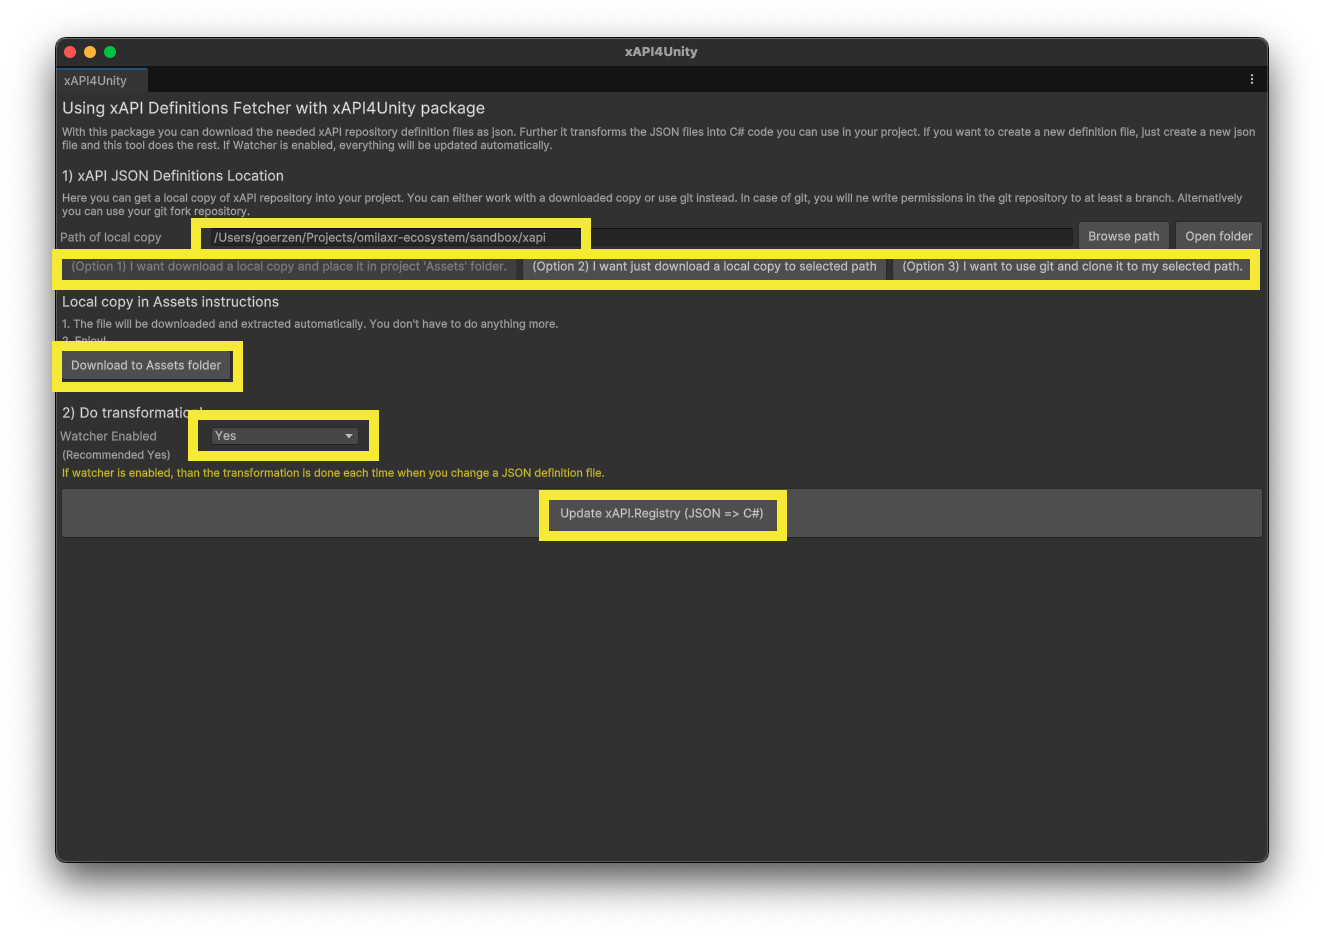
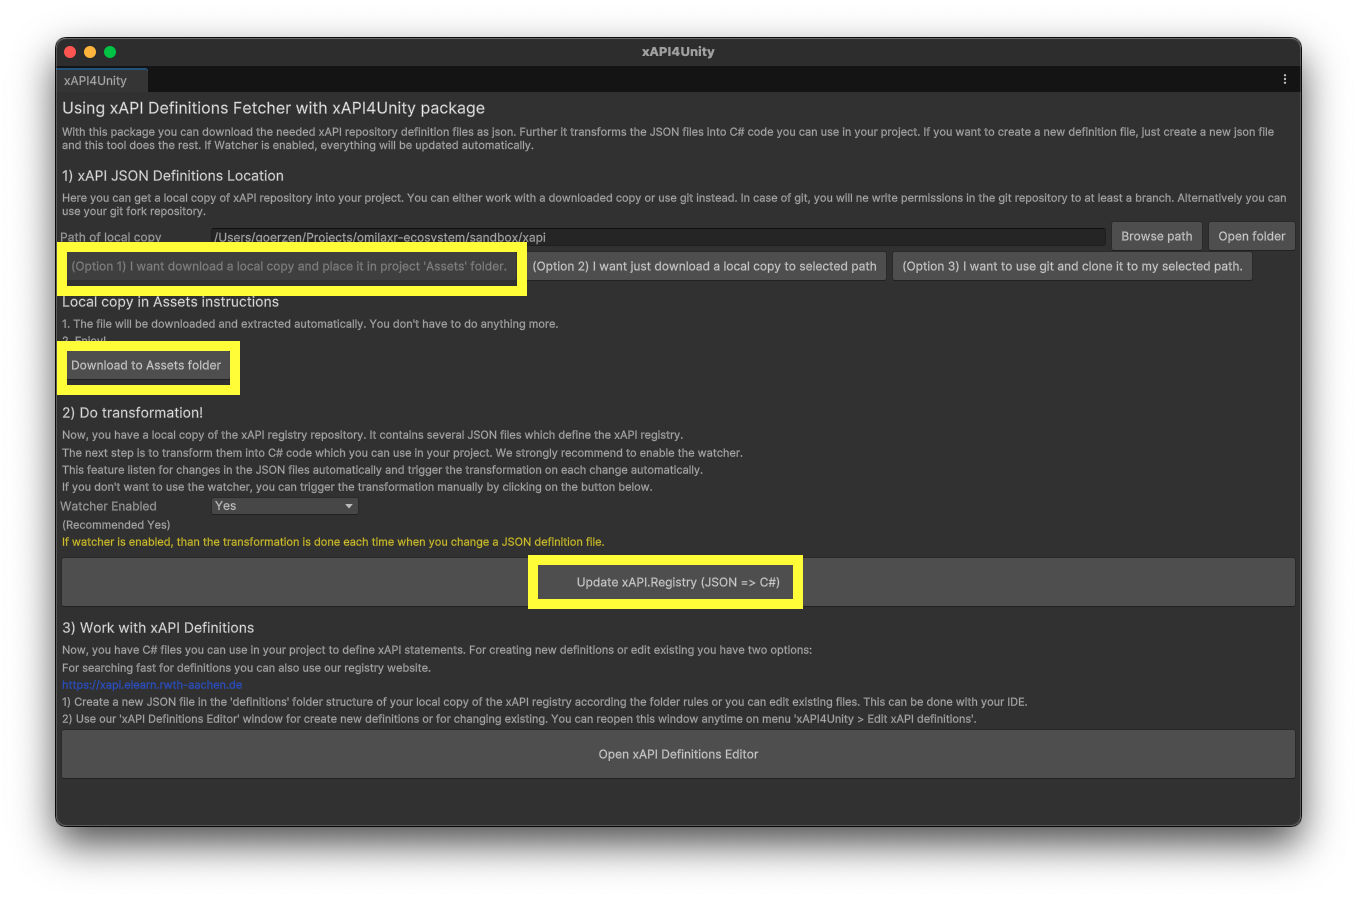
updated some images and texts

Changed region(s): [[0.031, 0.0311, 0.96, 0.8711], [0.031, 0.9022, 0.96, 0.9333]]

diff --git a/src/components/presentation/getStarted.tsx b/src/components/presentation/getStarted.tsx
@@ -25,21 +25,26 @@ export default function () {
 
     const fm = new FigureManager({
         figures: [
-            {label: "step-0", imageSrc: "/get-started/step-0.png"},
-            {label: "step-1", imageSrc: "/get-started/scoped-registry.png"},
-            {label: "step-3", imageSrc: "/get-started/step-3.jpg"},
-            {label: "my-registries", imageSrc: "/get-started/my-registries.png"},
-            {label: "my-registries-2023", imageSrc: "/get-started/my-registries-2023.png"},
-            {label: "xapi4unity", imageSrc: "/get-started/xapi4unity.png"},
-            {label: "add-from-disk", imageSrc: "/get-started/add-from-disk.png"},
             {label: "omilaxr-workflow", imageSrc: "/OmiLAXR_Workflow_generic_small.jpg"},
-            {label: "using-xapi", imageSrc: "/Using_xAPI_v2.webm"},
-            {label: "trackable-register", imageSrc: "/get-started/Trackable_Register.png"},
+            {label: "step-0", imageSrc: "/get-started/step-0.png"},
+            {label: "my-registries-2023", imageSrc: "/get-started/my-registries-2023.png"},
+            {label: "my-registries", imageSrc: "/get-started/my-registries.png"},
+            {label: "xapi4unity-menu", imageSrc: "/get-started/xAPI4Unity_Menu.png"},
+            {label: "xapi4unity", imageSrc: "/get-started/xapi4unity.png"},
             {label: "installed-omilaxr", imageSrc: "/get-started/installed-omilaxr.png"},
             {label: "asmdef-inspector", imageSrc: "/get-started/asmdef.png"},
             {label: "prefabs", imageSrc: "/get-started/prefabs.png"},
             {label: "prefabs-2", imageSrc: "/get-started/prefabs-2.png"},
             {label: "prefabs-in-hierarchy", imageSrc: "/get-started/prefabs-in-hierarchy.png"},
+            {label: "add-from-disk", imageSrc: "/get-started/add-from-disk.png"},
+            {label: "unityxr", imageSrc: "/get-started/unityxr.png"},
+            {label: "mrtk2", imageSrc: "/get-started/mrtk2.png"},
+            {label: "discord", imageSrc: "/get-started/discord.png"},
+
+            {label: "step-1", imageSrc: "/get-started/scoped-registry.png"},
+            {label: "step-3", imageSrc: "/get-started/step-3.jpg"},
+            {label: "using-xapi", imageSrc: "/Using_xAPI_v2.webm"},
+            {label: "trackable-register", imageSrc: "/get-started/Trackable_Register.png"},
         ]
     });
 
@@ -64,11 +69,11 @@ export default function () {
                     <li><InlineCodeBox>OmiLAXR</InlineCodeBox>: The base module for added functionality.</li>
                     <li><InlineCodeBox>OmiLAXR.xAPI</InlineCodeBox>: Adds xAPI handling tools and components.</li>
                 </ul>
-                <P><strong style={{color: "red", fontSize: "1.5em"}}>Packages must be installed in the mentioned order: (1) xAPI4Unity → (2) OmiLAXR → (3) OmiLAXR.xAPI.</strong></P>
+                <P><strong style={{color: "red" }}>For OmiLAXR.xAPI below 2.0.16: Packages must be installed in the mentioned order: (1) xAPI4Unity → (2) OmiLAXR → (3) OmiLAXR.xAPI.</strong></P>
             </div>
         },
 {
-            title: "Prepare Unity Package Scope (Optional)",
+            title: "Prepare Unity Package Scope",
             children: <div>
                 <strong>If you prefer installing packages by Git URL, skip this step. Otherwise, follow these instructions to manage package updates:</strong>
                 <P>Unity only recognizes Unity-hosted packages by default. To support third-party packages like <InlineCodeBox>OmiLAXR</InlineCodeBox>, update your `manifest.json` file to include the required scopes.</P>
@@ -108,10 +113,12 @@ export default function () {
                     For a more user friendly maintenance we created an user
                     interface <Hyperlink>https://xapi.elearn.rwth-aachen.de/</Hyperlink></P>
 
-                <P> Check in <InlineCodeBox>xAPI4Unity &gt; Open Fetcher Window (Settings)</InlineCodeBox>
+                <P> Check in <InlineCodeBox>xAPI4Unity &gt; Setup xAPI Definitions</InlineCodeBox>
                     whether everything is configured correctly.
                     Now, you have to check if every path is correct. The recommended settings are defined by default.
                     Here, you have three options. You can click through them because you need confirm again before action get executed.</P>
+
+                <fm.Figure caption={"xAPI4Unity Menu"} label={"xapi4unity-menu"} />
 
                 <ul>
                     <li><strong>(Option 1) I want to download a local copy and place it in projects 'Assets' folder</strong>:
@@ -197,7 +204,7 @@ export default function () {
                 <P><InlineCodeBox>OmiLAXR</InlineCodeBox> modules are following a strict structure. They provide
                     prefabs that can be used to start directly (see <fm.FigureRef label="prefabs"/>, <fm.FigureRef label="prefabs-2"/> and <fm.FigureRef label="prefabs-in-hierarchy"/>).</P>
 
-                <P style={{fontSize:"1.5em"}}>To see the modular architecture basics and some code examples click <a href="/pipeline">here</a>.</P>
+                <P style={{fontSize:"1.5em"}}>&gt;&gt;&gt; To see the modular architecture basics and some code examples click <a href="/pipeline">here</a>. &lt;&lt;&lt;</P>
 
                     <P>Example scripts can be found
                     &nbsp;<a className="underline" target="_blank"
@@ -206,11 +213,38 @@ export default function () {
                 <fm.Figure caption={"OmiLAXR Prefab"} label={"prefabs"} maxWidth={"50%"}/>
                 <fm.Figure caption={"OmiLAXR.xAPI Prefab"} label={"prefabs-2"} maxWidth={"50%"}/>
                 <fm.Figure caption={"OmiLAXR Prefabs in Hierarchy"} label={"prefabs-in-hierarchy"} maxWidth={"50%"}/>
+            </div>
+        },
+        {
+            title: "Install your needed XR SDK Module",
+            children: <div>
+                <P>To support XR interactions it is needed to install a OmiLAXR module, that supports the SDK-specific components.</P>
+                <P>We are working on several components. Please take a look into those which are already published.</P>
+                <P>If you cannot find them in your Unity registry, please take a look <Hyperlink url="/ecosystem">here</Hyperlink>.</P>
 
+                <Tabs tabs={[{
+                    id: "unityxr",
+                    label: "UnityXR",
+                    content: <fm.Figure caption="OmiLAXR.UnityXR" label="unityxr" maxWidth="70%"/>
+                }, {
+                    id: "mrtk",
+                    label: "MRTK2",
+                    content: <fm.Figure caption="OmiLAXR.MRTK2" label="mrtk2" maxWidth="70%"/>
+                }]}/>
+            </div>
+        },
+        {
+            title: "Join our Discord server",
+            children: <div>
+                <P>Our Discord server has update notes and a community, where everyone is working with OmiLAXR.</P>
+                <P>Join and work within a community! Click <Hyperlink url={'https://discord.gg/AnUXutpHZz'}>here</Hyperlink>.</P>
 
-
-                <div className="pt-3"></div>
-                <h5 style={{fontSize: "20px"}}>(Optional, if you wish to work in separate Unity packages): Creating OmiLAXR modules</h5>
+                <fm.Figure caption={"OmiLAXR Discord server"} label={"discord"} />
+            </div>
+        },
+        {
+            title: "Contribute and share with the community",
+            children: <div>
                 <P>In OmiLAXRv2 we are working with so called "modules". The <a href="/pipeline">Pipeline</a> consists of components. Modules are a collection of components to extend or create OmiLAXR pipelines.</P>
                 <P>This way you can split your LA work into an own repository.</P>
                 <P>To do LA work, you can either place all components in an own folder inside your project or you can work with an own module following this template.</P>
@@ -232,7 +266,7 @@ export default function () {
                 <P>In case you want to contribute to OmiLAXR by extending or changing OmiLAXR modules, use can use the same workflow. For contribution we recommend to create a fork of our projects and push the changes back.</P>
                 <P>But here you need to clone one of these <Hyperlink>https://gitlab.com/learntech-rwth/omilaxr-ecosystem/v2</Hyperlink> repositories to your computer.</P>
             </div>
-        },
+        }
     ];
 
     return (
@@ -241,10 +275,10 @@ export default function () {
                 <div className="container mx-auto items-center relative">
                     <h1 className="mb-4 text-4xl font-extrabold leading-none tracking-tight text-gray-900 dark:text-white">Get
                         started</h1>
-                    <p style={{color: 'red'}}
-                       className="mb-6 text-lg font-normal text-gray-500 lg:text-xl dark:text-gray-400">
-                        Looking for v1 of OmiLAXR? Click <a href="/get-started-v1" className="underline">here</a>.
-                    </p>
+                    {/*<p style={{color: 'red'}}*/}
+                    {/*   className="mb-6 text-lg font-normal text-gray-500 lg:text-xl dark:text-gray-400">*/}
+                    {/*    Looking for v1 of OmiLAXR? Click <a href="/get-started-v1" className="underline">here</a>.*/}
+                    {/*</p>*/}
 
                     <p style={{color: 'green'}}
                        className="mb-6 text-lg font-normal text-gray-500 lg:text-xl dark:text-gray-400">

diff --git a/src/components/CodeBox.tsx b/src/components/CodeBox.tsx
@@ -6,6 +6,7 @@ interface CodeBoxProps {
     children: string,
     language: string,
     filename?: string,
+    clipboardCode?: string,
 }
 
 interface InlineCodeBoxProps {
@@ -53,7 +54,7 @@ export function InlineCodeBox({children, href, target, clipboardButton}: InlineC
     return <>{code}{clipboardCode}</>;
 }
 
-export default function CodeBox({children: code, language, filename}: CodeBoxProps) {
+export default function CodeBox({children: code, clipboardCode, language, filename}: CodeBoxProps) {
     return (
         <div className={'code-box code-' + language.toLowerCase()} style={{position: "relative", maxWidth: '100%'}}>
             {filename && <small className="code-box-filename">{filename}</small>}
@@ -61,7 +62,7 @@ export default function CodeBox({children: code, language, filename}: CodeBoxPro
                 {code}
             </SyntaxHighlighter>
             <div className="code-box-copy-holder" style={{position: "absolute", right: "5px", top: "2em"}}>
-                <ClipboardButton code={code} />
+                <ClipboardButton code={clipboardCode ?? code} />
             </div>
             <div className="code-box-caption"></div>
         </div>

diff --git a/src/components/jsonManifest.tsx b/src/components/jsonManifest.tsx
@@ -1,16 +1,20 @@
 import CodeBox from "./CodeBox";
 import React from "react";
 
+function scopedRegistriesCode(scopes: string[]) {
+    return [
+        {
+            "name": "npmjs",
+            "url": "https://registry.npmjs.com",
+            "scopes": scopes
+        },
+    ];
+}
+
 export function jsonManifest(scopes: string[]) {
     return {
         "dependencies": {"...": "..."},
-        "scopedRegistries": [
-            {
-                "name": "npmjs",
-                "url": "https://registry.npmjs.com",
-                "scopes": scopes
-            },
-        ]
+        "scopedRegistries": scopedRegistriesCode(scopes)
     };
 }
 
@@ -18,7 +22,10 @@ interface IJsonManifestCodeboxProps {
     scopes: string[]
 }
 export function JsonManifestCodebox({scopes}: IJsonManifestCodeboxProps) {
-    return <CodeBox language="JavaScript" filename="<project_root>/Packages/manifest.json">
+    const s = JSON.stringify(scopedRegistriesCode(scopes));
+
+
+    return <CodeBox language="JavaScript" filename="<project_root>/Packages/manifest.json" clipboardCode={'"scopedRegistries": ' + s}>
         {JSON.stringify(jsonManifest(scopes), null, 2)}
     </CodeBox>;
 }

diff --git a/src/components/presentation/ecosystem.tsx b/src/components/presentation/ecosystem.tsx
@@ -45,6 +45,13 @@ export default function () {
             required: {"xAPI Definitions Registry": "https://xapi.elearn.rwth-aachen.de/"}
         },
         {
+            name: "OmiLAXR.MRTK2",
+            sourceCode: "https://gitlab.com/learntech-rwth/omilaxr-ecosystem/v2/xr-framework-modules/omilaxr.mrtk2",
+            package: "com.rwth.unity.omilaxr.mrtk2",
+            purpose: "Collection of Listeners, Filters and Tracking Behaviours for MRTK2 SDK.",
+            required: {"OmiLAXR@^2.0.17": "https://www.npmjs.com/package/com.rwth.unity.omilaxr/v/2.0.17", "MRTK2": "https://learn.microsoft.com/en-us/windows/mixed-reality/mrtk-unity/mrtk2/packages/mrtk-packages?view=mrtkunity-2022-05"}
+        },
+        {
             name: "OmiLAXR.UnityXR",
             sourceCode: "https://gitlab.com/learntech-rwth/omilaxr-ecosystem/v2/xr-framework-modules/omilaxr.unityxr",
             package: "com.rwth.unity.omilaxr.unityxr",
